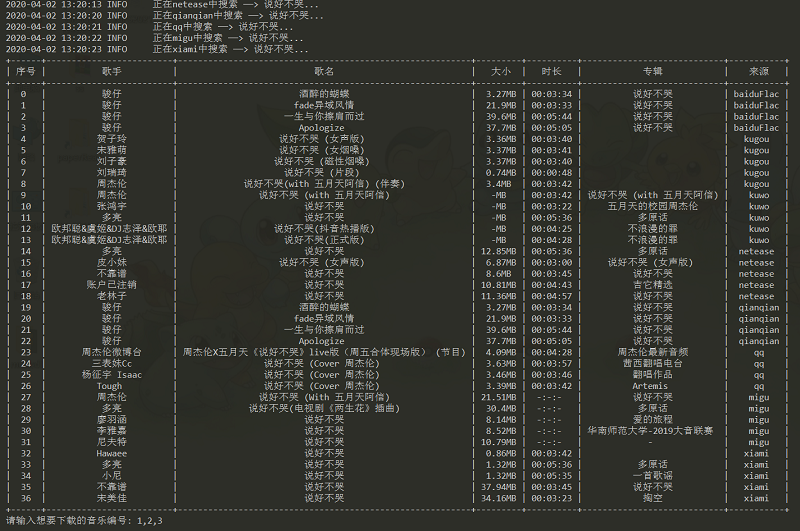
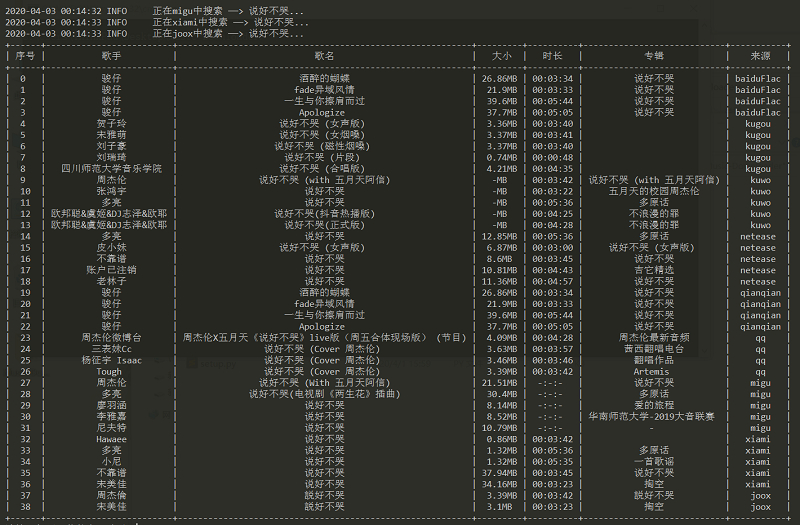
update screenshot

diff --git a/musicdl/musicdl.py b/musicdl/musicdl.py
@@ -101,7 +101,7 @@ class musicdl():
 				search_results.update({'xiami': self.xiami.search(keyword)})
 			except:
 				self.logger_handle.warning('无法在%s中搜索 ——> %s...' % ('xiami', keyword))
-		if joox in target_srcs:
+		if 'joox' in target_srcs:
 			try:
 				search_results.update({'joox': self.joox.search(keyword)})
 			except:
